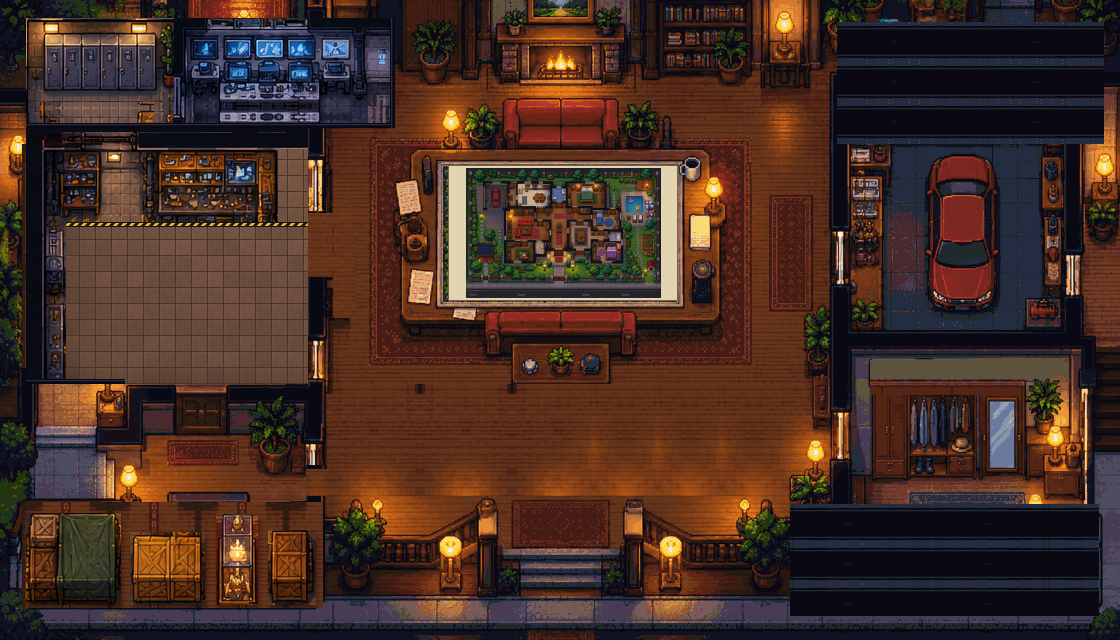
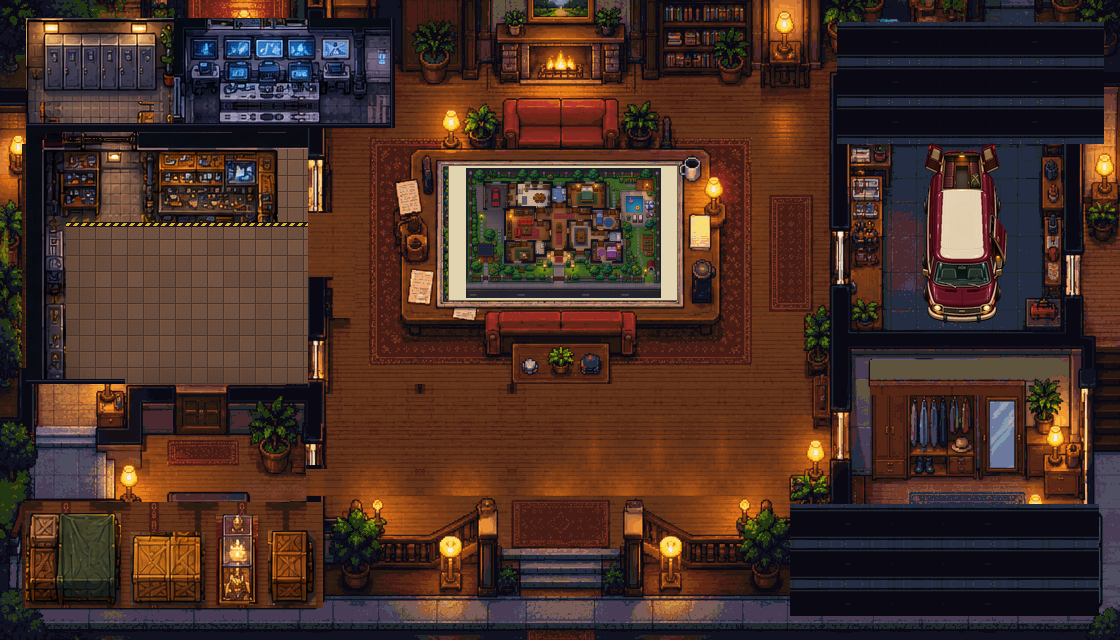
Getaway van: the crew's van replaces the car in the garage
- The crew's van (art/lobby/getaway-van-source.png, top-down with its rear and side doors open)
  is shrunk to the lobby's 16 px a tile by scripts/build-getaway-van.py into
  public/assets/lobby/van.png and parked in the garage. The reference's car is still cut out
  (so the floor under it is filled in) but no longer put back: props can now say place: false.
- The getaway scene drives the van: the crew lines up along its right side and climbs in
  through the open side door; its headlights and the lights on its rear doors glow.
- floor.png is the generator's again: the scene draws it over the parked van once it moves.

Changed region(s): [[0.8125, 0.2188, 0.9062, 0.5312]]

diff --git a/src/main.ts b/src/main.ts
@@ -93,36 +93,37 @@ const PORTAL_COLORS: Record<number, string> = { 2: '#3ee6d4', 3: '#ffb02e', 4: '
 
 // The safehouse's moving parts, in lobby art pixels (where they are in lobby.png): the flames in
 // the hearth, the surveillance room's screens (the monitor wall, then the desk screens), and the
-// getaway car's lights (it faces south: headlights at the bottom, tail-lights at the top).
+// getaway van's lights (it faces south: headlights at the bottom, tail-lights at the top).
 const HEARTH = { x: 561, y: 64, w: 26 };
 const CCTV_SCREENS = [[192, 41, 26, 15], [226, 41, 24, 14], [257, 41, 25, 15], [290, 41, 23, 14], [323, 41, 24, 15], [228, 63, 20, 13], [259, 63, 21, 13], [290, 63, 22, 13], [199, 63, 10, 5], [328, 63, 12, 5]];
 /** Which trap stands on which Gadget Lab pad (left to right, top to bottom). The ones with parts
  *  that stand up (the crusher's piston, the laser's and the fake loot's posts) take the top row,
  *  where those can rise toward the bench; the wide floor ones fill the bottom row. */
 const GADGET_ORDER: TrapKind['id'][] = ['crusher', 'laser', 'fakeLoot', 'blackout', 'shock', 'spring', 'snare', 'magnet', 'glue', 'oil', 'gas', 'boulder'];
-const CAR_HEADLIGHTS = [[940, 297], [985, 297]];
-/** The getaway car's sprite (props/car.png) and where it's parked in lobby.png, art px; the
- *  floor layer under it (floor.png) is drawn over the parked car once it moves. */
-const CAR_BOX = { x: 925, y: 154, w: 75, h: 158 };
-const carImg = Object.assign(new Image(), { src: '/assets/lobby/props/car.png' });
+const CAR_HEADLIGHTS = [[937, 296], [987, 296]];
+/** The getaway van's sprite (van.png, scripts/build-getaway-van.py) and where it's parked in
+ *  lobby.png, art px; the floor layer under it (floor.png) is drawn over it once it moves. */
+const CAR_BOX = { x: 922, y: 143, w: 85, h: 180 };
+const carImg = Object.assign(new Image(), { src: '/assets/lobby/van.png' });
 const garageFloorImg = Object.assign(new Image(), { src: '/assets/lobby/floor.png' });
 /**
- * The getaway, after GO (ms from GO): everyone blinks out, reappears beside the car (two lines,
- * left and right of it), walks to its doors one after another and climbs in; the car revs, then
+ * The getaway, after GO (ms from GO): everyone blinks out, reappears beside the van (two lines
+ * up its right side), walks to its open side door one after another and climbs in; the van revs, then
  * pulls away as the screen goes dark. DEPART_MS (data/rooms.ts) covers it for a crew of nine.
  */
 const DEPART = { blink: 500, appear: 600, walk: 900, stagger: 200, speed: 0.075, rev: 3800, drive: 4300, dark: 5000 };
-/** Where seat i waits, and the door it gets in by (art px). */
-const departSlot = (i: number) => ({ x: (i % 2 ? 63.9 : 56.4) * ART_TILE, y: (11 + Math.floor(i / 2) * 1.9) * ART_TILE });
-const departDoor = (i: number) => ({ x: (i % 2 ? 62.8 : 57.5) * ART_TILE, y: 14.6 * ART_TILE });
-/** When seat i starts walking, and when it's in the car (ms from GO). */
+/** Where seat i waits (two lines up the van's right side, its back is to the wall), and the open
+ *  side door everyone gets in by (art px). */
+const departSlot = (i: number) => ({ x: (i % 2 ? 64.5 : 63.6) * ART_TILE, y: (10 + Math.floor(i / 2)) * ART_TILE });
+const departDoor = (_i: number) => ({ x: 63.4 * ART_TILE, y: 15.3 * ART_TILE });
+/** When seat i starts walking, and when it's in the van (ms from GO). */
 const departWalk = (i: number) => DEPART.walk + i * DEPART.stagger;
 const departBoard = (i: number) => {
   const a = departSlot(i);
   const b = departDoor(i);
   return departWalk(i) + Math.hypot(b.x - a.x, b.y - a.y) / DEPART.speed;
 };
-const CAR_TAILLIGHTS = [[940, 163], [987, 163]];
+const CAR_TAILLIGHTS = [[930, 147], [994, 147]];
 
 // Loot: one item in your hands at a time, 35% slower while carrying (Steady Carry halves
 // that). Bank it by walking into the GETAWAY zone on the street, in tiles.
@@ -487,7 +488,7 @@ async function boot() {
   // The round's start: 3-2-1 in the last seconds of setup, then GO!, and a Runner's camera
   // zooms from the whole map into their character.
   // The safehouse's crew moments: pops when someone joins or readies up, waves over heads,
-  // and the 3-2-1 (with the getaway car starting up) when the host starts.
+  // and the 3-2-1 (with the getaway van starting up) when the host starts.
   const crewPops = new Map<string, { text: string; color: string; at: number }>();
   const waves = new Map<string, { line: number; at: number }>();
   const WAVE_MS = 1700;
@@ -667,7 +668,7 @@ async function boot() {
     // looks round the whole house with a free camera; waiting Runners see all of it.
     const watch = spectated();
     let [tx, ty] = watch ? [watch.bandit.x, watch.bandit.y - DRAW_H / 2] : [me.x, me.y - DRAW_H / 2];
-    // The getaway: the camera pans to the garage and watches the car.
+    // The getaway: the camera pans to the garage and watches the van.
     if (departure && scene === 'lobby') [tx, ty] = [CAR_BOX.x + CAR_BOX.w / 2, CAR_BOX.y + CAR_BOX.h / 2];
     // The play zoom: a character is CHAR_SCREEN_FRACTION of the screen's height, on any screen.
     const play = Math.max(1, (canvas.height * CHAR_SCREEN_FRACTION) / DRAW_H);
@@ -691,7 +692,7 @@ async function boot() {
       [tx, ty] = [w / 2 + (tx - w / 2) * e, h / 2 + (ty - h / 2) * e];
       snap = true;
     } else scale = play;
-    // The getaway: push in on the garage over the first moments, so the crew and the car fill the view.
+    // The getaway: push in on the garage over the first moments, so the crew and the van fill the view.
     if (departure && scene === 'lobby') {
       const k = Math.min(1, (performance.now() - departure.at) / 900);
       scale *= 1 + 1.1 * (k < 0.5 ? 2 * k * k : 1 - (-2 * k + 2) ** 2 / 2);
@@ -945,7 +946,7 @@ async function boot() {
         ? `Hide the diamonds and place up to ${trapSlots(msg.size)} traps. Confirm when your setup is ready.`
         : 'The Saboteur is rigging the house. Get ready to go in.';
     banner.innerHTML = `<span class="kicker">ROUND ${msg.round} OF ${msg.rounds} · ${hs ? 'HIDE &amp; SEEK · ' : ''}${MAPS[mapId].name}</span><span class="role-line">You are ${role}</span><span class="crew-list">${job}</span>`;
-    // The role lands hard: the card slams in, the role word stamps down, a sting plays.
+    // The role lands hard: the vand slams in, the role word stamps down, a sting plays.
     const sab = msg.role === 'saboteur';
     banner.className = `match-banner reveal ${sab ? 'is-sab' : 'is-runner'}`;
     if (!msg.resume) {
@@ -1010,10 +1011,10 @@ async function boot() {
       }
       case 'roomStarting':
         if (msg.ms > 0 && scene === 'lobby') {
-          // The host started: 3, 2, 1 while the getaway car starts up.
+          // The host started: 3, 2, 1 while the getaway van starts up.
           endLobbyStart(true);
           const depart = msg.depart ?? 0;
-          // The engine idles through the getaway and revs as the car pulls away.
+          // The engine idles through the getaway and revs as the van pulls away.
           lobbyStart = { endsAt: performance.now() + msg.ms, shown: 0, stopEngine: engineStart(msg.ms + (depart ? DEPART.drive - 300 : 0)), depart };
           lobby.setStarting(msg.ms);
         } else if (msg.ms <= 0) {
@@ -1283,7 +1284,7 @@ async function boot() {
         lobby.setMe(myName, myCharacter, profile);
         resultScreen.showFinal(msg, myId);
         sfx(msg.standings[0]?.id === myId ? 'win' : 'alert');
-        // A chime as each award card pops in (matches the cards' animation delays).
+        // A chime as each award card pops in (matches the vands' animation delays).
         for (let i = 0; i < resultScreen.awardCount; i++) setTimeout(() => sfx('award'), 800 + i * 350);
         break;
       case 'phase':
@@ -2111,7 +2112,7 @@ async function boot() {
       } else {
         me.update(input, lobbyMap);
         // The room is the menu: the wardrobe, the planning table (the map) and the garage door
-        // (the getaway car: start, or ready up).
+        // (the getaway van: start, or ready up).
         // In the Gadget Lab, the pad you're standing on: its card shows, and E sets it off.
         const labPad = gadgetPadAt(me.x, me.y);
         if (input.action) {
@@ -4235,7 +4236,7 @@ async function boot() {
   /**
    * The safehouse breathing: the fire flickers and spits sparks, each lamp wavers on its own beat,
    * the surveillance screens shimmer (a scan line rolls down each, now and then one cuts to another
-   * camera, and REC blinks), and the getaway car idles with its lights on. In art pixels.
+   * camera, and REC blinks), and the getaway van idles with its lights on. In art pixels.
    */
   function drawRoomLife(camX: number, camY: number) {
     const t = performance.now() / 1000;
@@ -4358,7 +4359,7 @@ async function boot() {
     return { x: a.x + dx * k, y: a.y + dy * k, facing, moving: along > 0 && along < dist };
   }
 
-  /** How visible seat i is: fading out at GO, back beside the car, fading into it at the door. */
+  /** How visible seat i is: fading out at GO, back beside the van, fading into it at the door. */
   function departAlpha(i: number, t: number) {
     if (t < DEPART.blink) return 1 - t / DEPART.blink;
     if (t < DEPART.appear) return 0;
@@ -4393,11 +4394,11 @@ async function boot() {
     });
     once('whoosh', () => sfx('whoosh'));
     if (t >= DEPART.appear) once('appear', () => sfx('tap'));
-    // The rev: smoke from the back of the car.
+    // The rev: smoke from the back of the van.
     if (t >= DEPART.rev && t < DEPART.drive && frame % 6 === 0) particles.burst(CAR_BOX.x + CAR_BOX.w / 2 + (Math.random() - 0.5) * 20, CAR_BOX.y + 4, '#8a8f9e', 3, 0.6);
   }
 
-  /** The getaway car: parked (it's in the room's art) until the rev; then it shakes and pulls away. */
+  /** The getaway van: parked (it's in the room's art) until the rev; then it shakes and pulls away. */
   function carShift() {
     const t = departure ? performance.now() - departure.at : 0;
     if (t < DEPART.rev) return { x: 0, y: 0 };
@@ -4414,7 +4415,7 @@ async function boot() {
     ctx.drawImage(carImg, x - camX + s.x, y - camY + s.y);
   }
 
-  /** A character in the safehouse, faded as the getaway needs (gone once in the car). */
+  /** A character in the safehouse, faded as the getaway needs (gone once in the van). */
   function drawLobbyActor(b: Bandit, camX: number, camY: number, lit: boolean) {
     const seat = departure ? departure.crew.findIndex((id) => (id === myId ? me : remotes.get(id)?.bandit) === b) : -1;
     const a = seat >= 0 ? departAlpha(seat, performance.now() - departure!.at) : 1;
@@ -4425,7 +4426,7 @@ async function boot() {
     ctx.globalAlpha = was;
   }
 
-  /** As the car pulls away the screen goes dark, and says where the crew's headed. */
+  /** As the van pulls away the screen goes dark, and says where the crew's headed. */
   function drawDepartureFade() {
     if (!departure) return;
     const t = performance.now() - departure.at;
@@ -4449,7 +4450,7 @@ async function boot() {
     ctx.restore();
   }
 
-  /** During the 3-2-1 the getaway car's headlights come on, flickering brighter toward GO. */
+  /** During the 3-2-1 the getaway van's headlights come on, flickering brighter toward GO. */
   function drawHeadlights(camX: number, camY: number) {
     if (!lobbyStart) return;
     const p = Math.max(0, Math.min(1, 1 - (lobbyStart.endsAt - performance.now()) / 3000));
@@ -4457,11 +4458,11 @@ async function boot() {
     ctx.save();
     ctx.globalCompositeOperation = 'lighter';
     const shift = carShift();
-    // As the car pulls away the beams open right up.
+    // As the van pulls away the beams open right up.
     const flare = departure && performance.now() - departure.at > DEPART.rev ? 1.5 : 1;
-    for (const hx of [58.4, 61.5]) {
-      const x = hx * ART_TILE - camX + shift.x;
-      const y = 18.7 * ART_TILE - camY + shift.y;
+    for (const [hx, hy] of CAR_HEADLIGHTS) {
+      const x = hx - camX + shift.x;
+      const y = hy - camY + shift.y;
       const r = (10 + 26 * p) * flare;
       const g = ctx.createRadialGradient(x, y, 0, x, y, r);
       g.addColorStop(0, `rgba(255, 244, 200, ${0.85 * flicker})`);

diff --git a/scripts/build-getaway-van.py b/scripts/build-getaway-van.py
@@ -1,0 +1,19 @@
+# Shrinks the crew's getaway van (art/lobby/getaway-van-source.png: top-down, facing south, its
+# rear and side doors open) to the lobby's 16 px a tile, into public/assets/lobby/van.png:
+#   python3 scripts/build-getaway-van.py art/lobby/getaway-van-source.png public/assets/lobby/van.png
+# The lobby bakes it into the garage (map/lobbyLayout.mjs DECOR); the getaway scene drives it.
+import sys
+from PIL import Image
+
+HEIGHT = 180  # px: the garage's depth, door to back wall
+
+src = Image.open(sys.argv[1]).convert('RGBA')
+src = src.crop(src.getchannel('A').point(lambda a: 255 if a > 128 else 0).getbbox())
+w = round(src.width * HEIGHT / src.height)
+# Resample with premultiplied alpha, so the edges don't pick up the empty background's colour.
+van = src.convert('RGBa').resize((w, HEIGHT), Image.LANCZOS).convert('RGBA')
+# Crisp edges, like the rest of the lobby's art: nearly-clear goes clear, nearly-solid goes solid.
+r, g, b, a = van.split()
+a = a.point(lambda v: 0 if v < 48 else 255 if v > 200 else v)
+Image.merge('RGBA', (r, g, b, a)).save(sys.argv[2])
+print(sys.argv[2], (w, HEIGHT))
